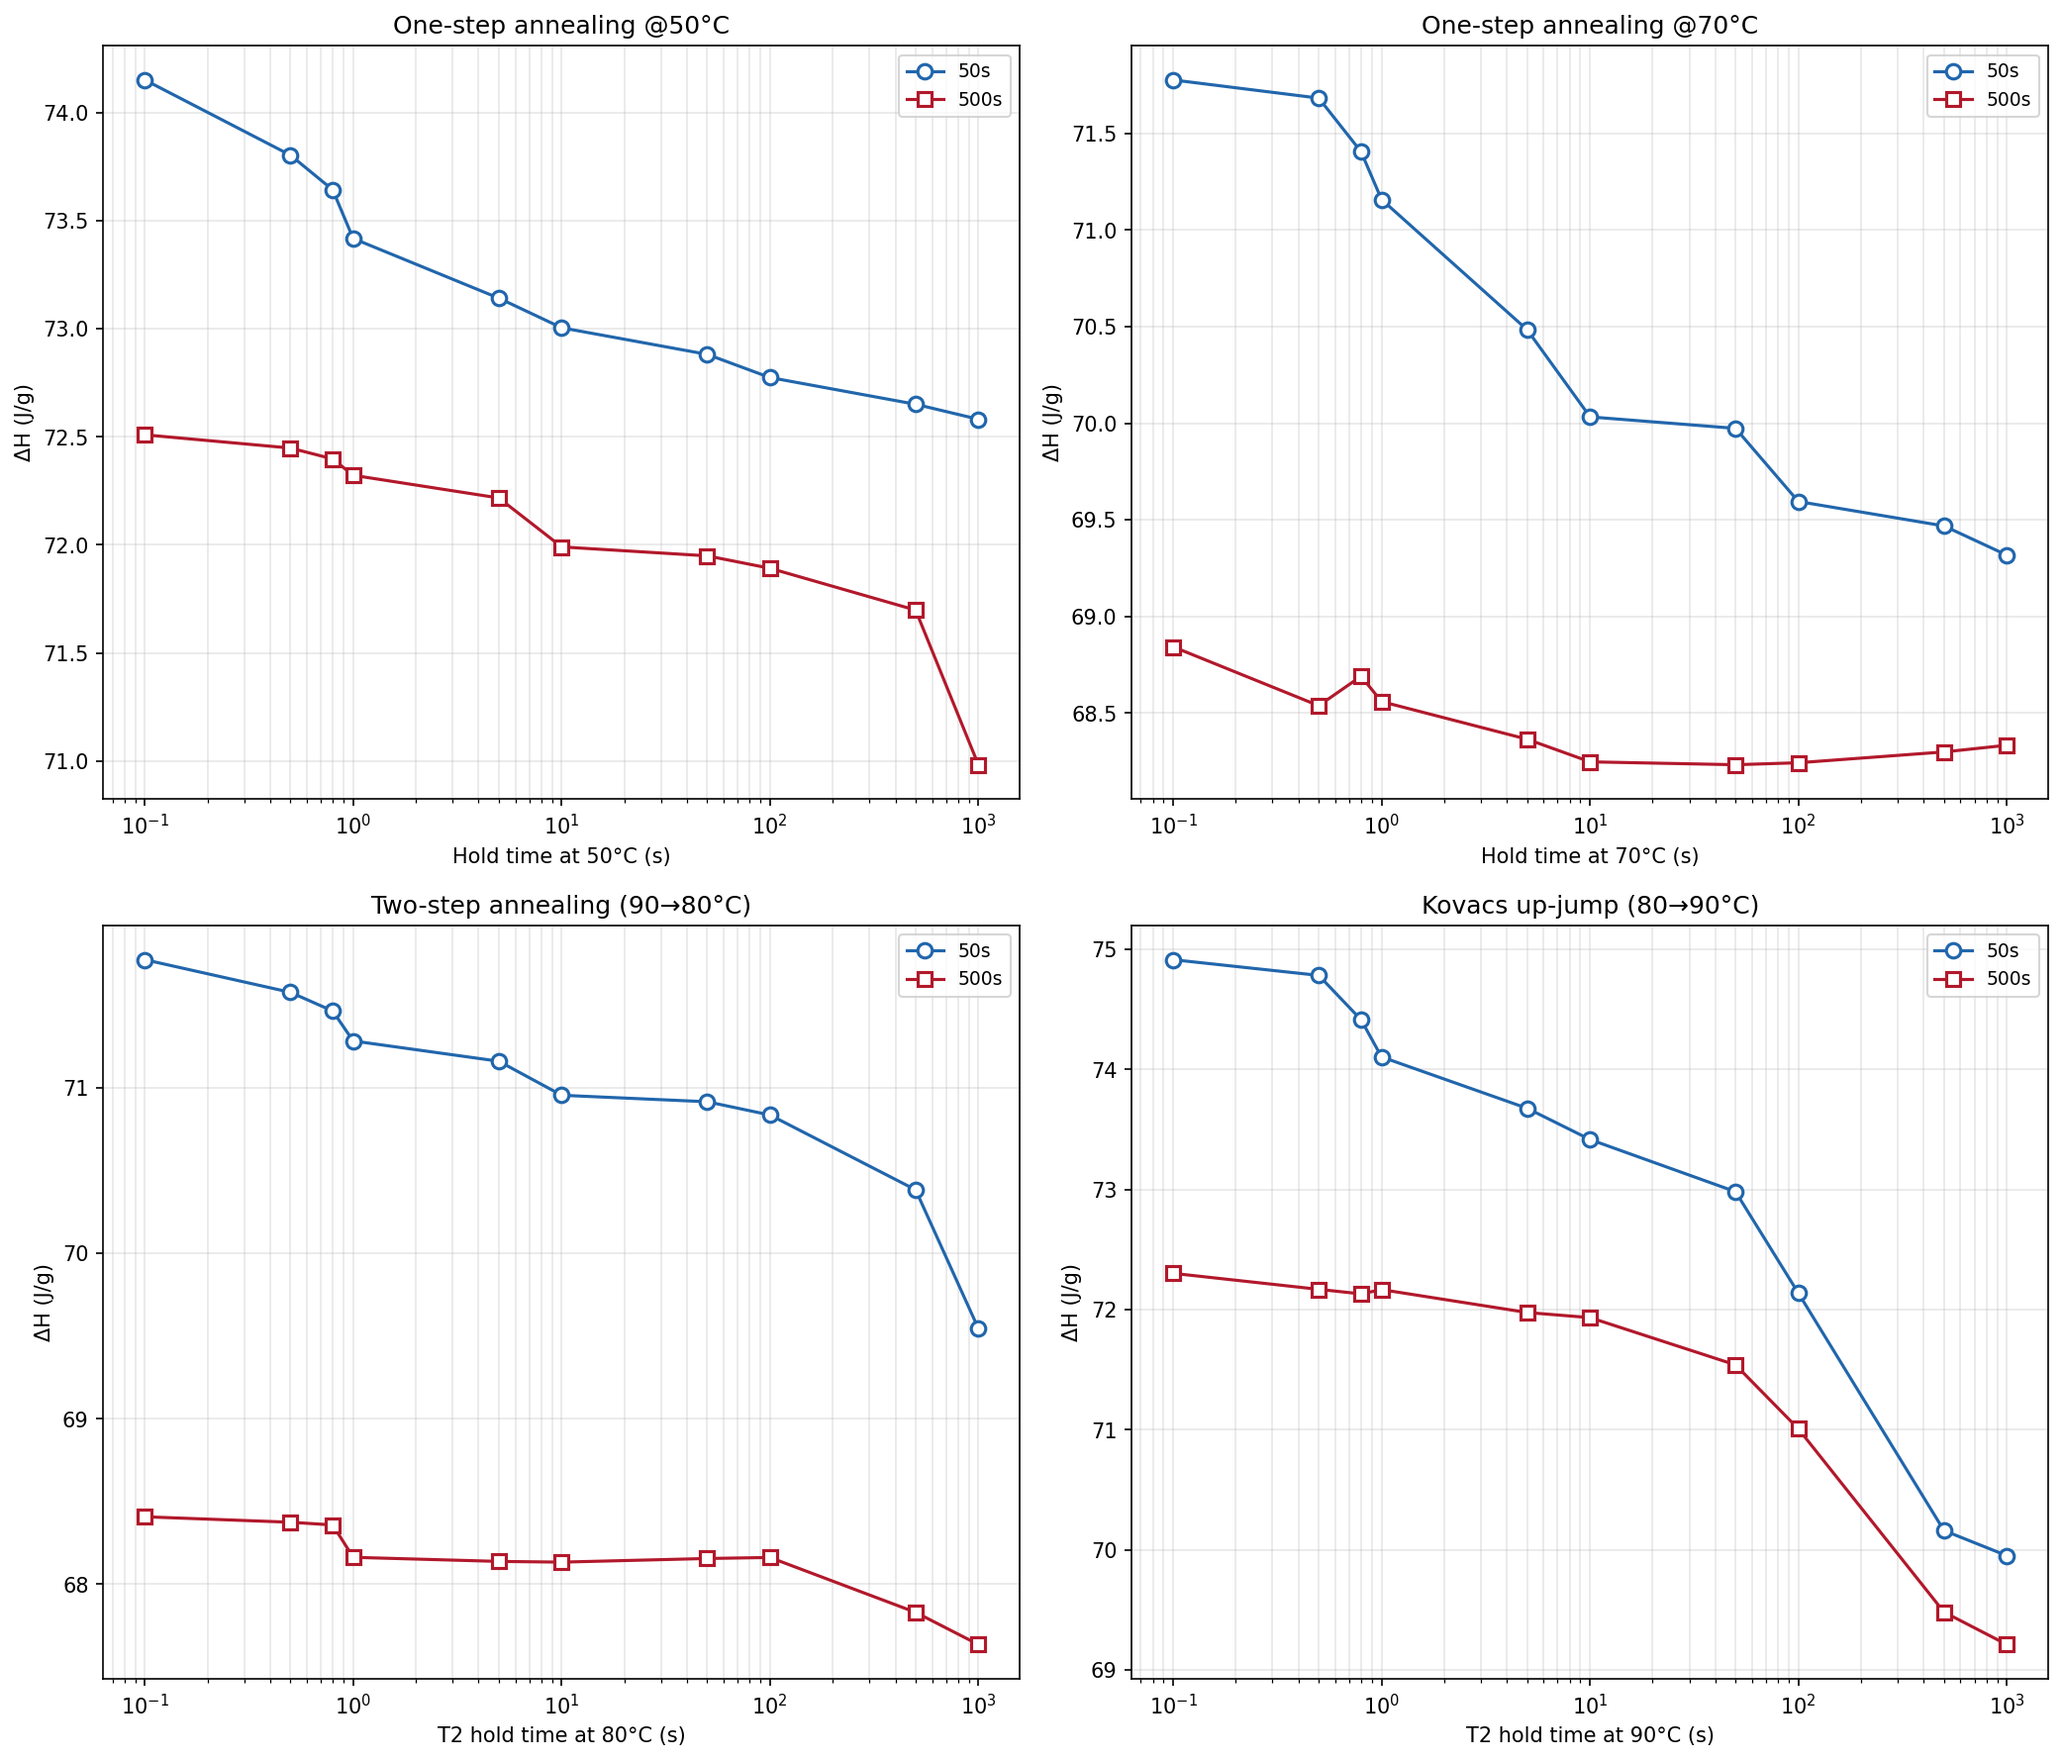
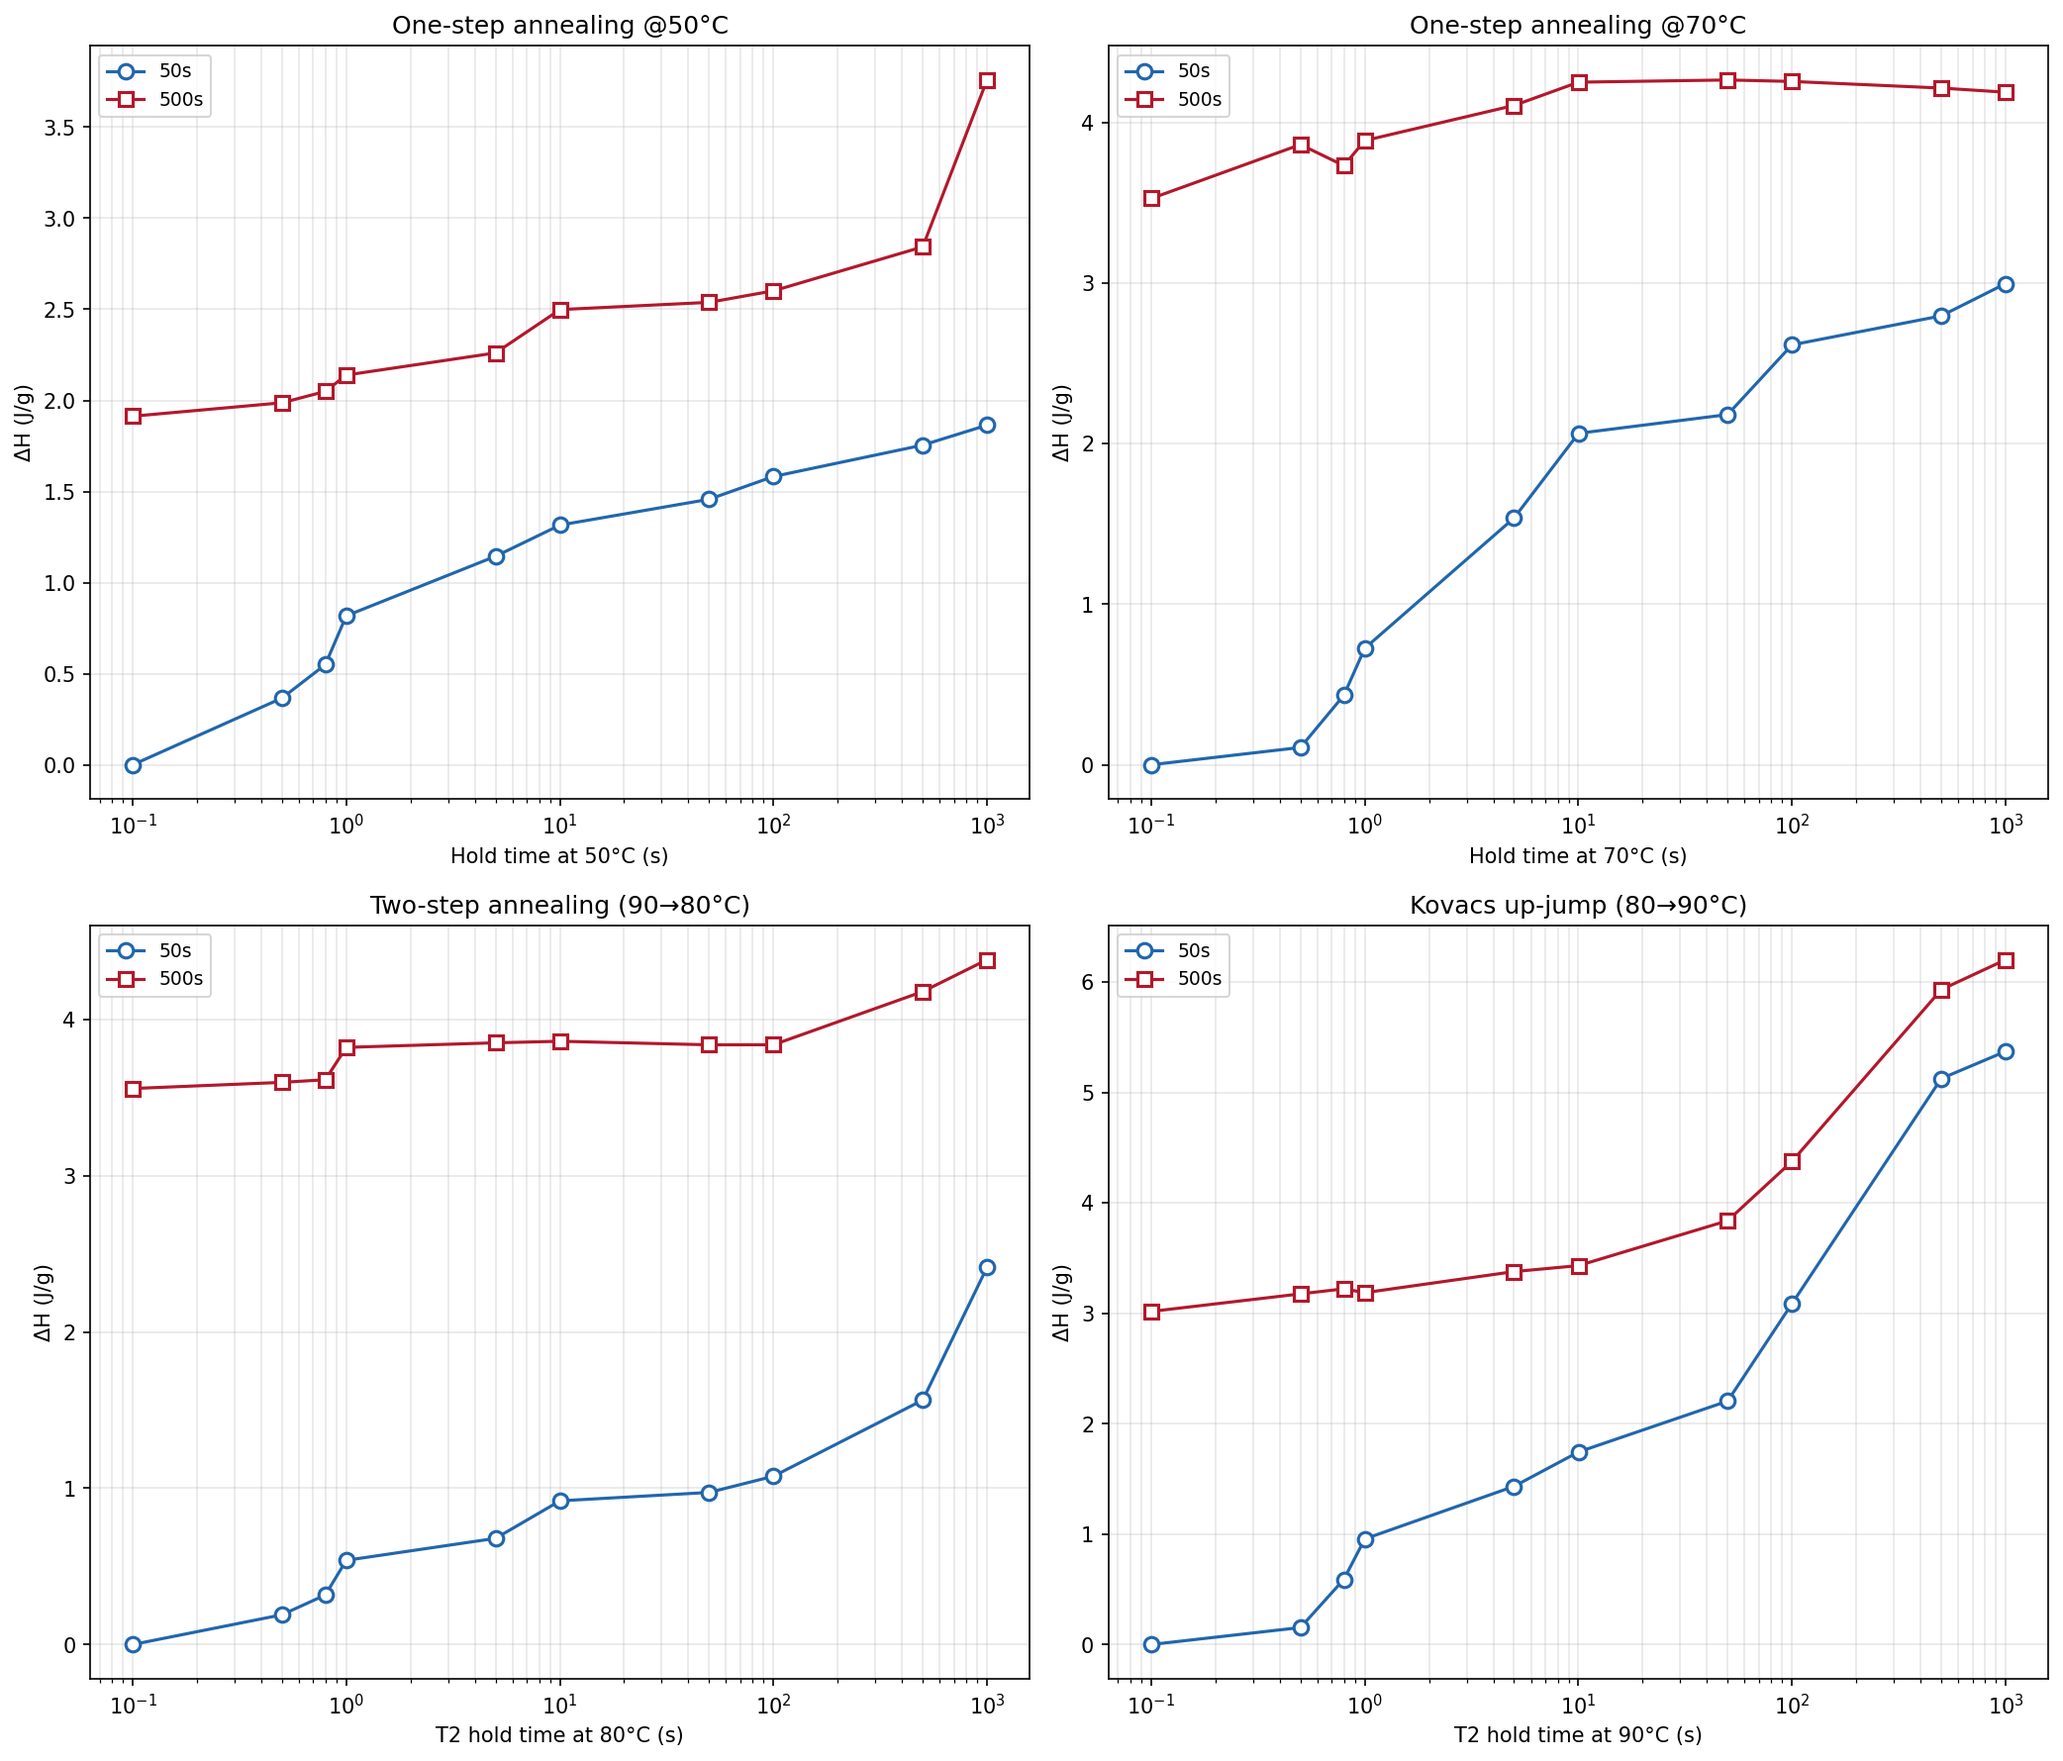
Switch T_low to 40°C, add calc method doc
Reference: as-cooled state (Ramp 1, 0.1s hold)
Integration: 40°C to T_onset, empty subtracted
All trends: ΔH increases with annealing time

diff --git a/src/export_enthalpy.py b/src/export_enthalpy.py
@@ -21,7 +21,7 @@ BETA = HEATING_RATE / 60.0
 DT_DT = 1.0 / BETA
 CONV_FACTOR = DT_DT / (M_SAMPLE * 1000)
 CONV_JG = CONV_FACTOR  # µW·°C → J/g
-T_INT_LOW = 50
+T_INT_LOW = 40
 
 
 def load_empty():
